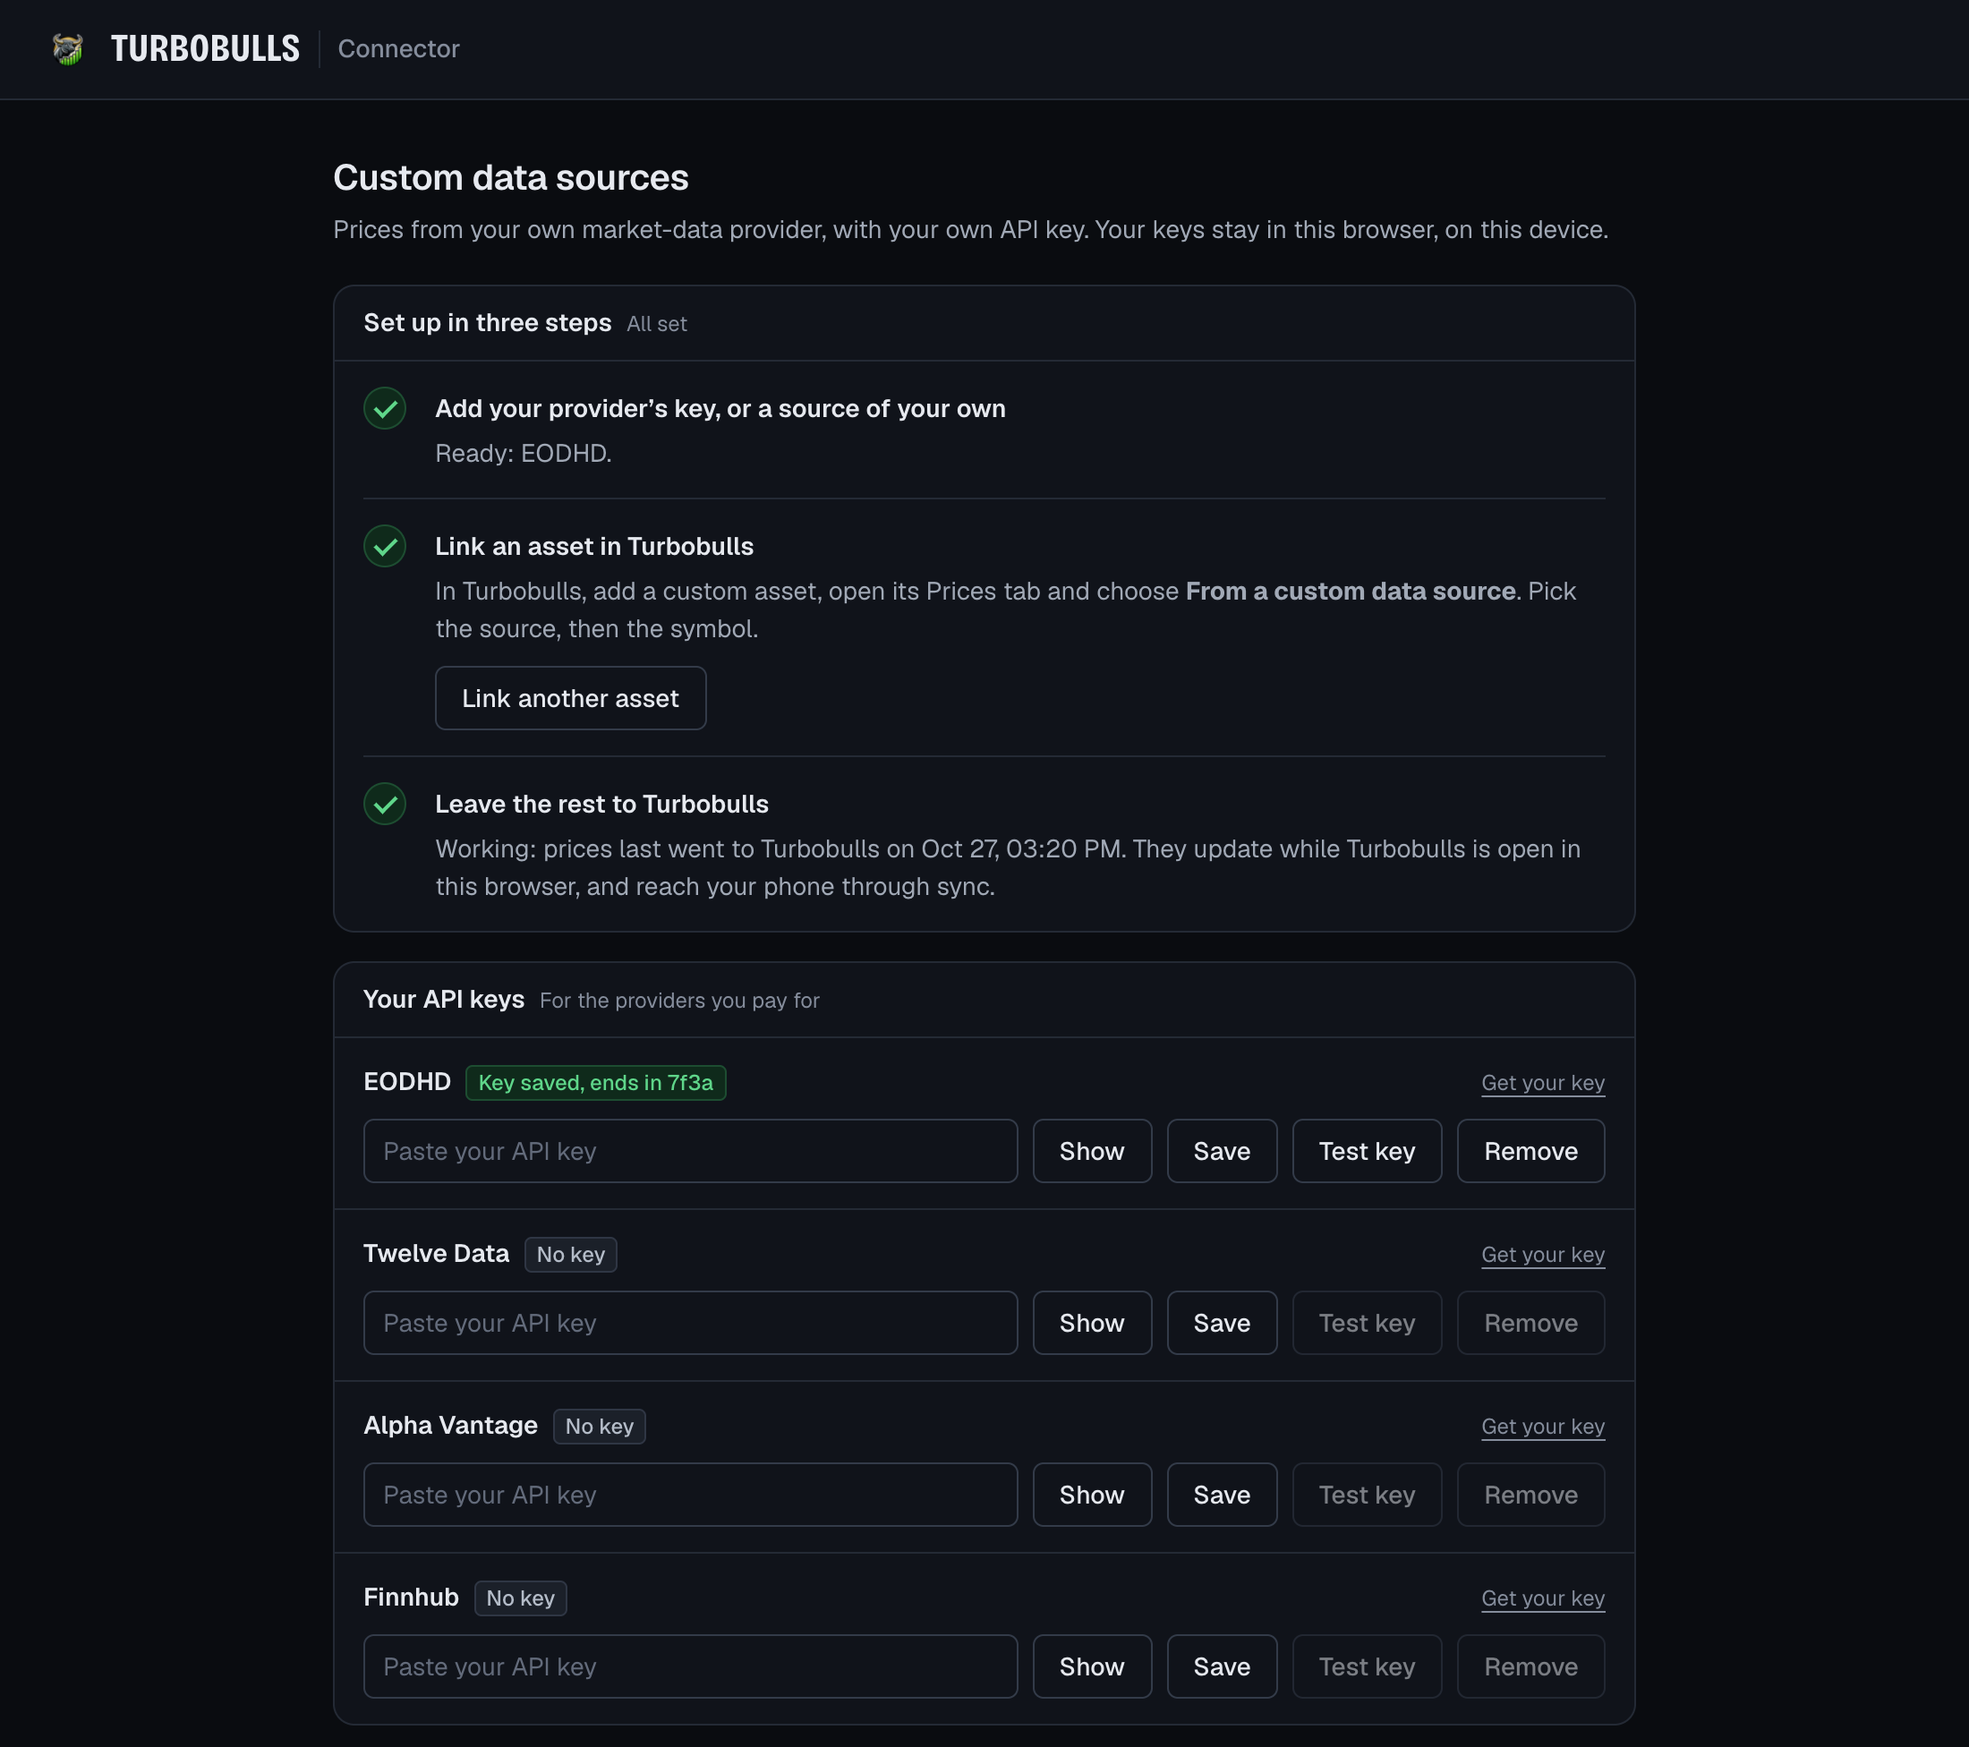
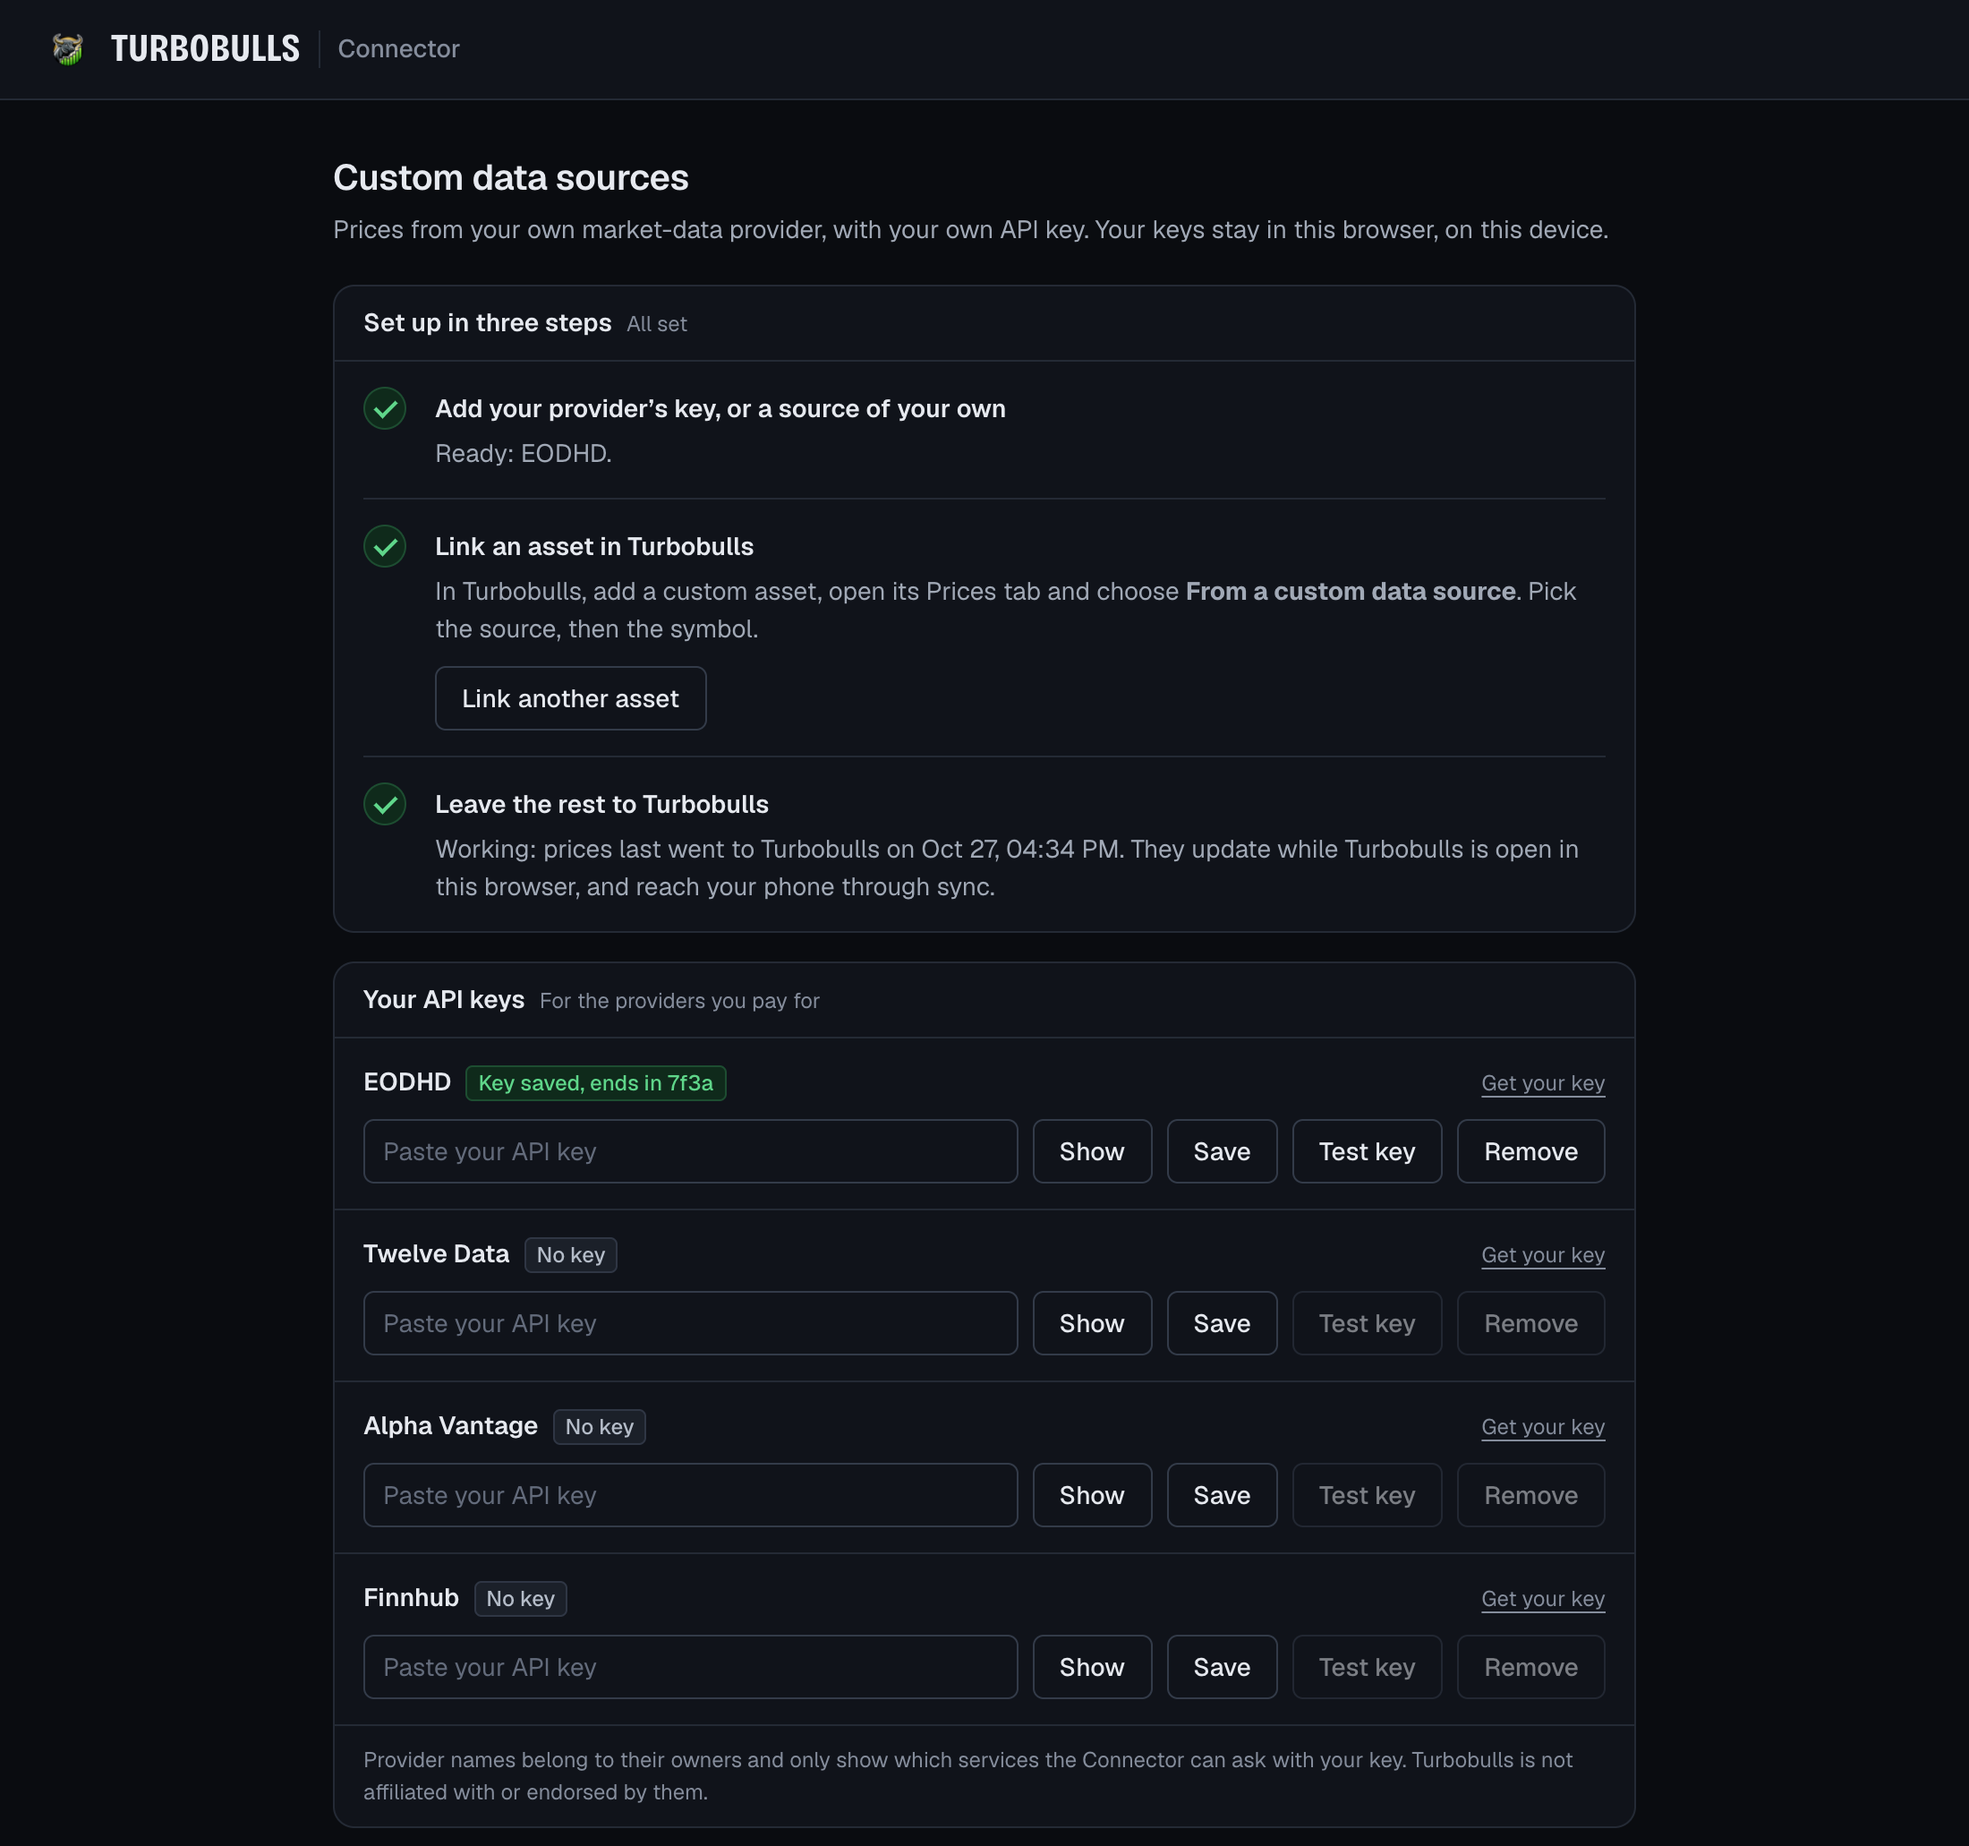
docs: say Turbobulls is not affiliated with the providers the README names
The providers heading now reads Providers it works with, a note under the table says the names only show which services the Connector can ask with your own key, and the settings screenshots show the new line.

diff --git a/README.md b/README.md
@@ -96,7 +96,7 @@ it yourself, see [Development](#development).
 
 What you can price depends on your plan with the provider.
 
-## Supported providers
+## Providers it works with
 
 | Provider | Covers | Notes |
 |---|---|---|
@@ -105,6 +105,10 @@ What you can price depends on your plan with the provider.
 | [Alpha Vantage](https://www.alphavantage.co) | Stocks and ETFs | The free plan allows few requests a day |
 | [Finnhub](https://finnhub.io) | Stocks | Daily prices need a paid plan |
 | [A source of your own](#your-own-sources) | Anything an `https://` address returns as JSON or CSV | No search: you type the symbol |
+
+EODHD, Twelve Data, Alpha Vantage and Finnhub are named only to show which services the Connector
+can ask with your own key. Turbobulls is not affiliated with or endorsed by any of them, and your use
+of each one is under your own plan and its terms.
 
 ## Privacy and security
 
